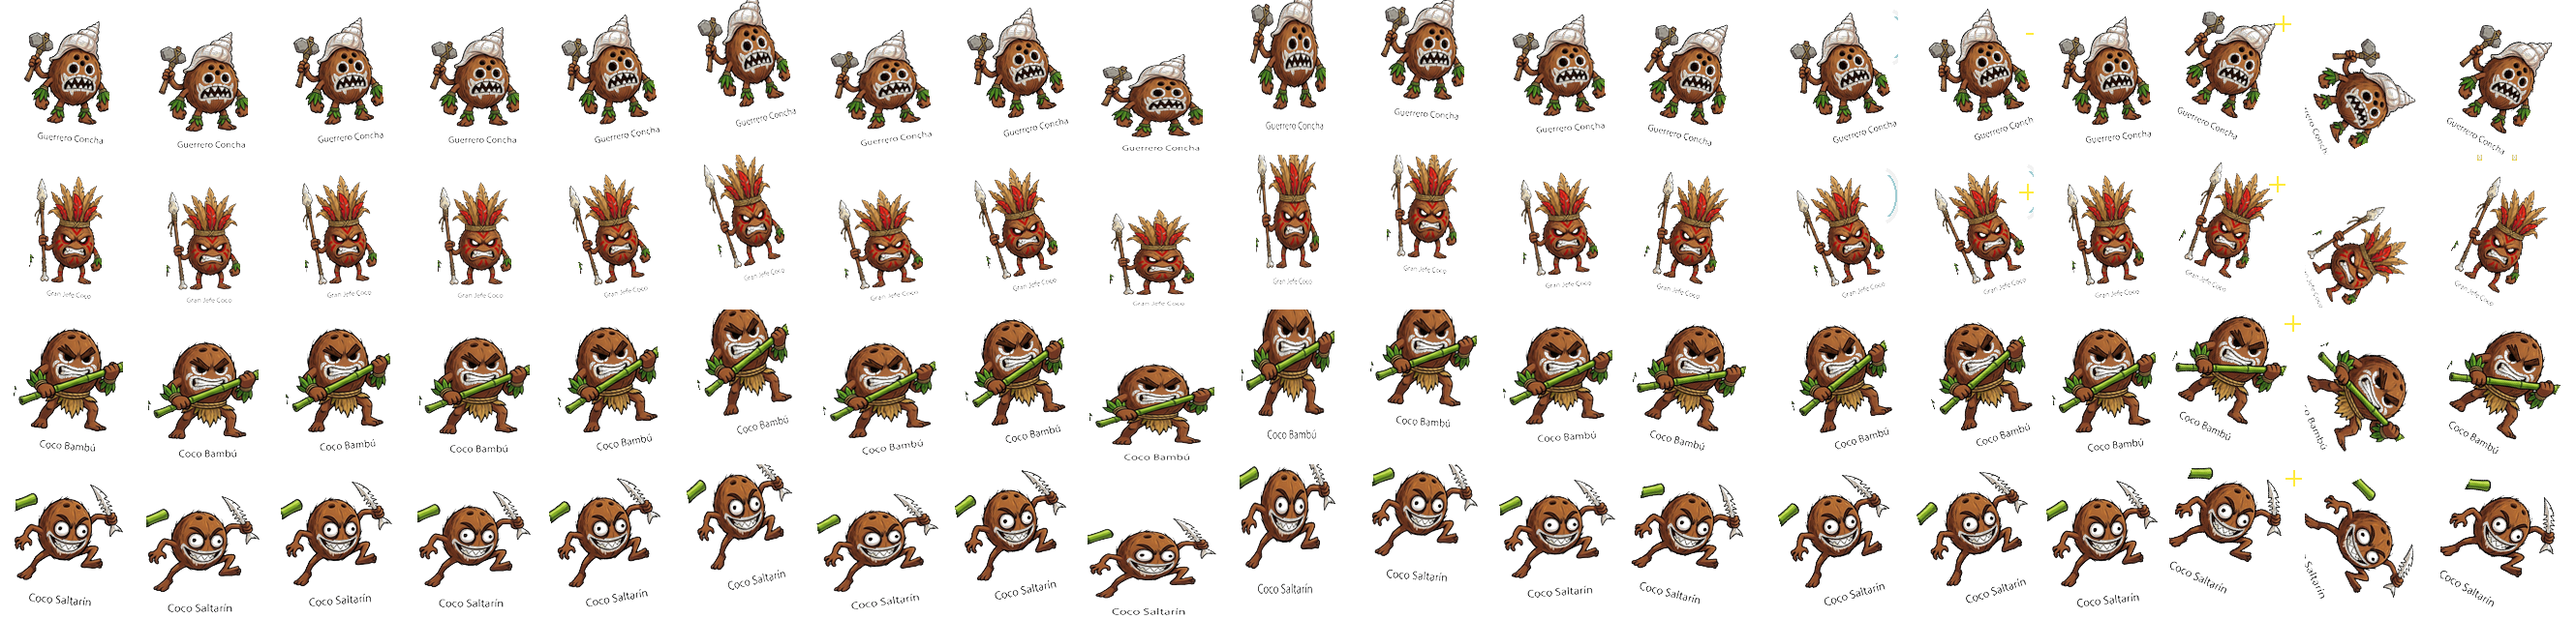
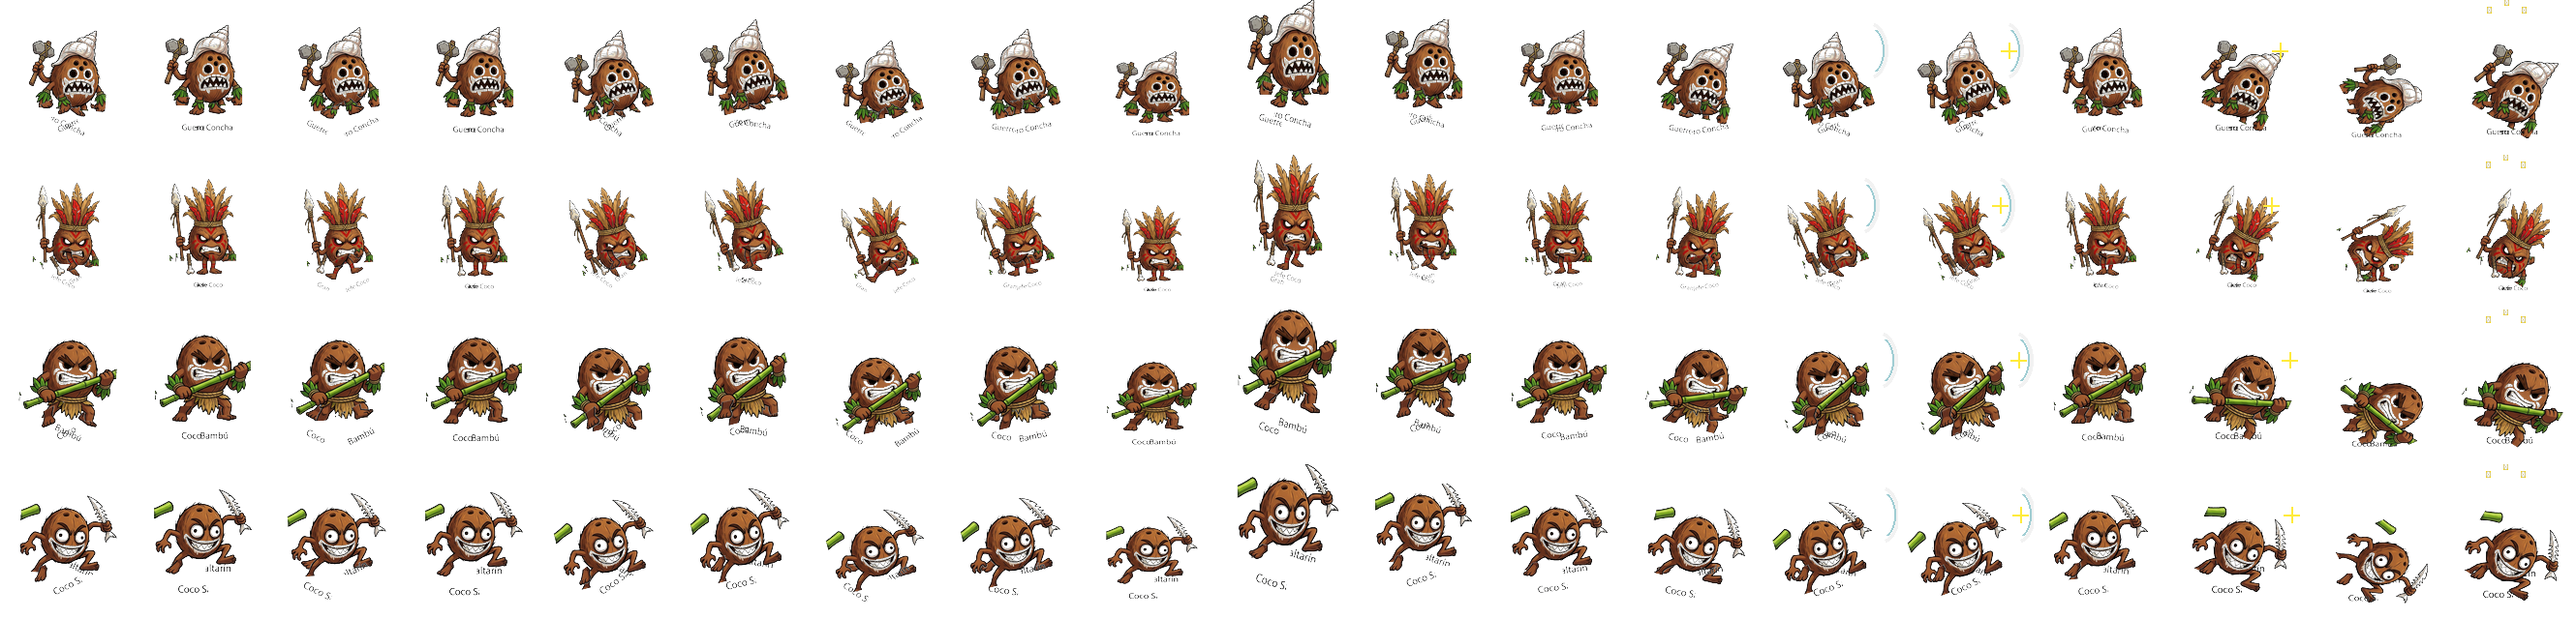
Implement true alternating leg strides for walking and running on all 4 coconut pirate enemies

diff --git a/index.html b/index.html
@@ -22,6 +22,6 @@
       </div>
     </div>
   </main>
-  <script src="game.js?v=cocos_all_actions_v5"></script>
+  <script src="game.js?v=cocos_intercalated_legs_v6"></script>
 </body>
 </html>
